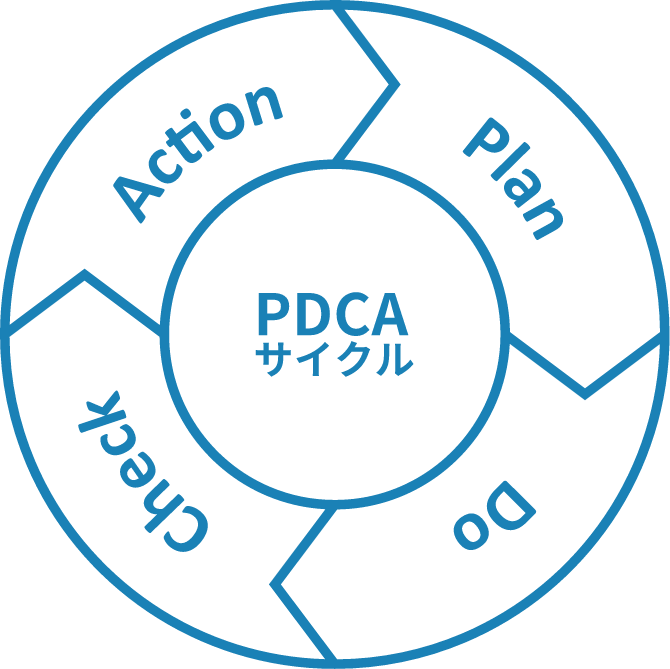
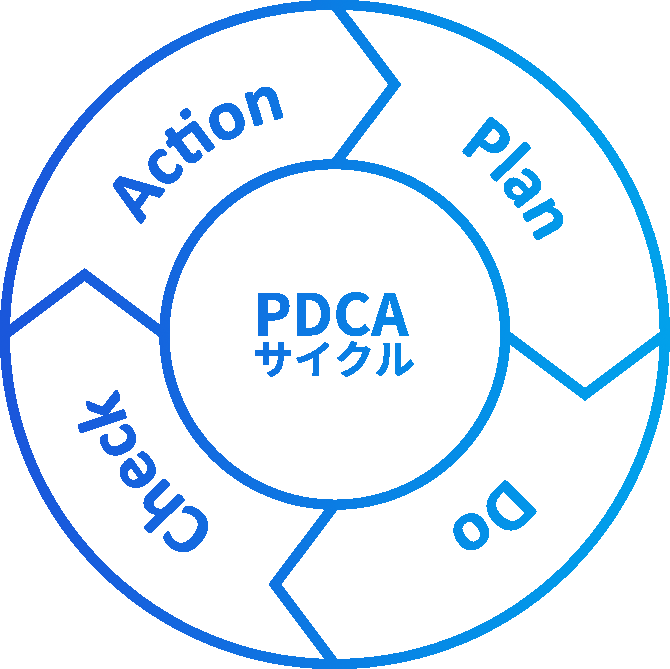
Design update 20230302 (#39)
* replace venn-diagram image

* update of fukidashi in pdca section

* update design of fukidashi in pdca section

* replace pdca icon

* update for responsive layout of pdca section

* add text to manga section

---------

diff --git a/themes/generic-dx/layouts/partials/organism/div.pdca-list-item.html b/themes/generic-dx/layouts/partials/organism/div.pdca-list-item.html
@@ -27,11 +27,11 @@
 {{ end }}
 
 <div class="flex flex-col gap-y-8 md:gap-0 md:flex-row lg:mb-2 lg:mr-[-80px] 3xl:mr-0 relative">
-    <div class="text-[24px] md:text-[20px] 3xl:text-[31px] font-bold text-white absolute top-1/2 -translate-y-1/2 left-1/2 -translate-x-1/2 w-[105px] h-[105px] 3xl:w-[140px] 3xl:h-[140px] text-center rounded-full {{ $color }}">
+    <div class="text-[24px] md:text-[20px] 3xl:text-[31px] font-bold text-white absolute top-1/2 -translate-y-1/2 left-1/2 -translate-x-1/2 w-[105px] h-[105px] xl:w-[117px] xl:h-[117px] 3xl:w-[140px] 3xl:h-[140px] text-center rounded-full {{ $color }}">
         <p class="absolute top-1/2 -translate-y-1/2 left-1/2 -translate-x-1/2 block">{{ $annotation }}</p>
     </div>
 
-    <div class="w-[200px] h-[200px] 3xl:w-[270px] 3xl:h-[250px] shrink-0 rounded-full flex flex-col justify-center shadow-xl">
+    <div class="w-[200px] h-[200px] xl:w-[230px] xl:h-[230px] 3xl:w-[270px] 3xl:h-[250px] shrink-0 rounded-full flex flex-col justify-center shadow-xl">
         {{ .Scratch.Set "class" "w-full h-full mx-auto" }}
         {{ .Scratch.Set "src" $image_src }}
         {{ .Scratch.Set "type" "thumbnail" }}
@@ -44,22 +44,8 @@
     </div>
 </div>
 
-<div class="relative w-full">
-    <svg preserveAspectRatio="none" xmlns="http://www.w3.org/2000/svg" width="100%" height="100%" viewBox="0 0 1154.707 253" class="lg:ml-10 2xl:ml-0 3xl:ml-[-80px] hidden md:block md:h-[200px] 3xl:h-auto">
-        <g transform="translate(-504.293 -11463)">
-          <g transform="translate(508.924 11606.828) rotate(-97)" fill="#fff">
-            <path d="M 33.34041595458984 122.5 L 4.659587383270264 122.5 C 3.92957329750061 122.5 3.238173246383667 122.1823196411133 2.762673377990723 121.6284027099609 C 2.287158966064453 121.0744857788086 2.077859163284302 120.3429489135742 2.188430547714233 119.6213455200195 L 16.52884483337402 26.03130340576172 C 16.76875877380371 24.46553230285645 18.00998687744141 23.90994644165039 19.00000190734863 23.90994644165039 C 19.99001693725586 23.90994644165039 21.23124504089355 24.46553230285645 21.47115898132324 26.03130340576172 L 35.81157302856445 119.6213455200195 C 35.92214584350586 120.3429489135742 35.71284484863281 121.0744857788086 35.23733139038086 121.6284027099609 C 34.7618293762207 122.1823196411133 34.07043075561523 122.5 33.34041595458984 122.5 Z" stroke="none"/>
-            <path d="M 18.99998664855957 25.40992736816406 C 18.74209403991699 25.40992736816406 18.49814033508301 25.48542022705078 18.33067893981934 25.61705017089844 C 18.22287940979004 25.70178985595703 18.072509765625 25.86046600341797 18.01152420043945 26.25848388671875 L 3.671123504638672 119.8485412597656 C 3.610572814941406 120.2437133789062 3.789047241210938 120.5211563110352 3.90081787109375 120.6513595581055 C 4.012603759765625 120.7815704345703 4.259803771972656 121.0000076293945 4.659587860107422 121.0000076293945 L 33.34041595458984 121.0000076293945 C 33.74020385742188 121.0000076293945 33.98740386962891 120.7815704345703 34.09918594360352 120.6513595581055 C 34.21095657348633 120.5211563110352 34.38943099975586 120.2437133789062 34.32888031005859 119.8485260009766 L 19.98846435546875 26.25849914550781 C 19.9274787902832 25.86048126220703 19.7770938873291 25.70178985595703 19.6692943572998 25.61705017089844 C 19.50183296203613 25.48542022705078 19.25787925720215 25.40992736816406 18.99998664855957 25.40992736816406 M 18.9999942779541 22.40993499755859 C 20.80356407165527 22.40993499755859 22.60713195800781 23.54132843017578 22.95384788513184 25.80411529541016 L 37.29426193237305 119.394157409668 C 37.66543197631836 121.8164520263672 35.79096984863281 124.0000076293945 33.34041595458984 124.0000076293945 L 4.659587860107422 124.0000076293945 C 2.209033966064453 124.0000076293945 0.3345718383789062 121.8164520263672 0.7057418823242188 119.394157409668 L 15.04614067077637 25.80411529541016 C 15.39285659790039 23.54132843017578 17.19642448425293 22.40993499755859 18.9999942779541 22.40993499755859 Z" stroke="none" fill="#707070"/>
-          </g>
-          <g transform="translate(607 11470)" fill="#fff" stroke="#707070" stroke-width="3">
-            <rect width="1052" height="180" rx="15" stroke="none"/>
-            <rect x="1.5" y="1.5" width="85%" height="240" rx="13.5" fill="none"/>
-          </g>
-          <line y2="25" transform="translate(609 11563)" fill="none" stroke="#fff" stroke-width="5"/>
-        </g>
-    </svg>
-    
-    <div class="md:w-5/6 3xl:h-[253px] flex flex-col justify-center z-10 border-[#9D9D9D] border-2 md:border-[3.5px] md:border-0 rounded-3xl p-4 3xl:p-0 md:ml-12 lg:ml-28 3xl:ml-0 md:absolute inset-0">
+<div class="relative md:h-[220px] 3xl:h-[270px] md:w-4/5 3xl:w-3/5">
+    <div class="w-full md:w-11/12 3xl:w-full 3xl:h-[253px] flex flex-col justify-center z-10 border-[#9D9D9D] border-2 md:border-[3.5px] rounded-3xl p-4 3xl:p-0 md:ml-8 lg:ml-28 3xl:ml-0 md:absolute inset-0 shadow-xl fukidashi">
         <h2 class="mb-5 3xl:ml-12 text-[24px] lg:text-[28px] 3xl:text-[40px] text-black font-bold text-center md:text-left {{ $textColor }}">{{ $title  | markdownify }}</h2>
         <p class="mb-4 3xl:ml-12 text-[15px] lg:text-[20px] 3xl:text-[28px] text-black text-center md:text-left">{{ $text  | markdownify  }}</p>
     </div>

diff --git a/themes/generic-dx/assets/css/tailwind.css b/themes/generic-dx/assets/css/tailwind.css
@@ -45,4 +45,48 @@ html.is-animating .transition-fade {
   display:none;
 }
 
+.fukidashi::before {
+  content: "";
+  position: absolute;
+  top: -31px;
+  left: 50%;
+  margin-top: -38px;
+  border: 33px solid transparent;
+  border-bottom: 42px solid #FFF;
+  z-index: 2;
+  transform: translateX(-50%);
+}
+
+.fukidashi::after {
+  content: "";
+  position: absolute;
+  top: -35px;
+  left: 50%;
+  margin-top: -37px;
+  border: 32px solid transparent;
+  border-bottom: 40px solid #9D9D9D;
+  z-index: 1;
+  transform: translateX(-50%);
+}
+
+@media screen and (min-width:768px) {
+  .fukidashi::before {
+    top: 50%;
+    left: -70px;
+    margin-top: -38px;
+    border: 33px solid transparent;
+    border-right: 42px solid #FFF;
+    transform: translateX(0);
+  }
+  
+  .fukidashi::after {
+    top: 50%;
+    left: -73px;
+    margin-top: -37px;
+    border: 32px solid transparent;
+    border-right: 40px solid #9D9D9D;
+    transform: translateX(0);
+  }
+}
+
 @tailwind utilities;

diff --git a/themes/generic-dx/layouts/shortcodes/li-pdca-list-item.html b/themes/generic-dx/layouts/shortcodes/li-pdca-list-item.html
@@ -4,7 +4,7 @@
 
 {{ .Scratch.Set "src" (.Get "image-src") }}
 
-<li class="flex flex-col xl:justify-center 3xl:justify-start gap-y-8 md:gap-0 md:flex-row items-center mb-8 lg:mb-2">
+<li class="flex flex-col xl:justify-center gap-y-8 md:gap-0 md:flex-row items-center mb-8 lg:mb-2 3xl:max-w-[1800px] 3xl:mx-auto">
     {{ partial "organism/div.pdca-list-item.html" . }}
 </li>
 

diff --git a/content/generic-dx/pdca.md b/content/generic-dx/pdca.md
@@ -16,28 +16,28 @@ weight: 7
 
 {{< li-pdca-list-item 
     annotation="PLAN"
-    title="P　データの洗い出しと<br class='md:hidden'>システム機能・効果の<br class='md:hidden'>仮説設定"
+    title="データの洗い出しと<br class='md:hidden'>システム機能・効果の<br class='md:hidden'>仮説設定"
     text="収集したデータをもとに、<br class='md:hidden'>必要な機能や効果について仮説を立てる"
     image-src="images/pdca/A.png"
 >}}
 
 {{< li-pdca-list-item 
     annotation="DO"
-    title="D　自動・手動で効果的に<br class='md:hidden'>データ収集"
+    title="自動・手動で効果的に<br class='md:hidden'>データ収集"
     text="課題の優先度を決めたあと、<br class='md:hidden'>自社データベースにデータを収集・蓄積"
     image-src="images/pdca/B.png"
 >}}
 
 {{< li-pdca-list-item 
     annotation="CHECK"
-    title="C　IT／現場での<br class='md:hidden'>データ加工・分析"
+    title="IT／現場での<br class='md:hidden'>データ加工・分析"
     text="「三層データ加工設計」で<br class='md:hidden'>分析に適した粒度のデータに加工・分析"
     image-src="images/pdca/C.png"
 >}}
 
 {{< li-pdca-list-item 
     annotation="ACTION"
-    title="A　分析結果を<br class='md:hidden'>ビジネスに活用"
+    title="分析結果を<br class='md:hidden'>ビジネスに活用"
     text="データ分析結果を<br class='md:hidden'>課題解決や新ビジネスの創出に活かす"
     image-src="images/pdca/D.png"
 >}}

diff --git a/content/generic-dx/manga.md b/content/generic-dx/manga.md
@@ -11,6 +11,13 @@ weight: 3
     color="blue"
 >}}
 
+<p class="mb-16">
+DX 化にあたって注視すべき指標はたった１つ、<br class="md:hidden">それは「投資対効果」です。<br>
+「PaaS のススメ」ではPaaSを原価調達し、<br class="md:hidden">システム基盤を構築していきますので<br>
+投資対効果が格段に上がります。<br>
+「PaaS のススメ」によるサブスク費用の削減についてマンガでわかりやすく解説します。
+</p>
+
 {{< div-manga-part 
     src="images/manga/A.png"
     title="ここがポイント！"
